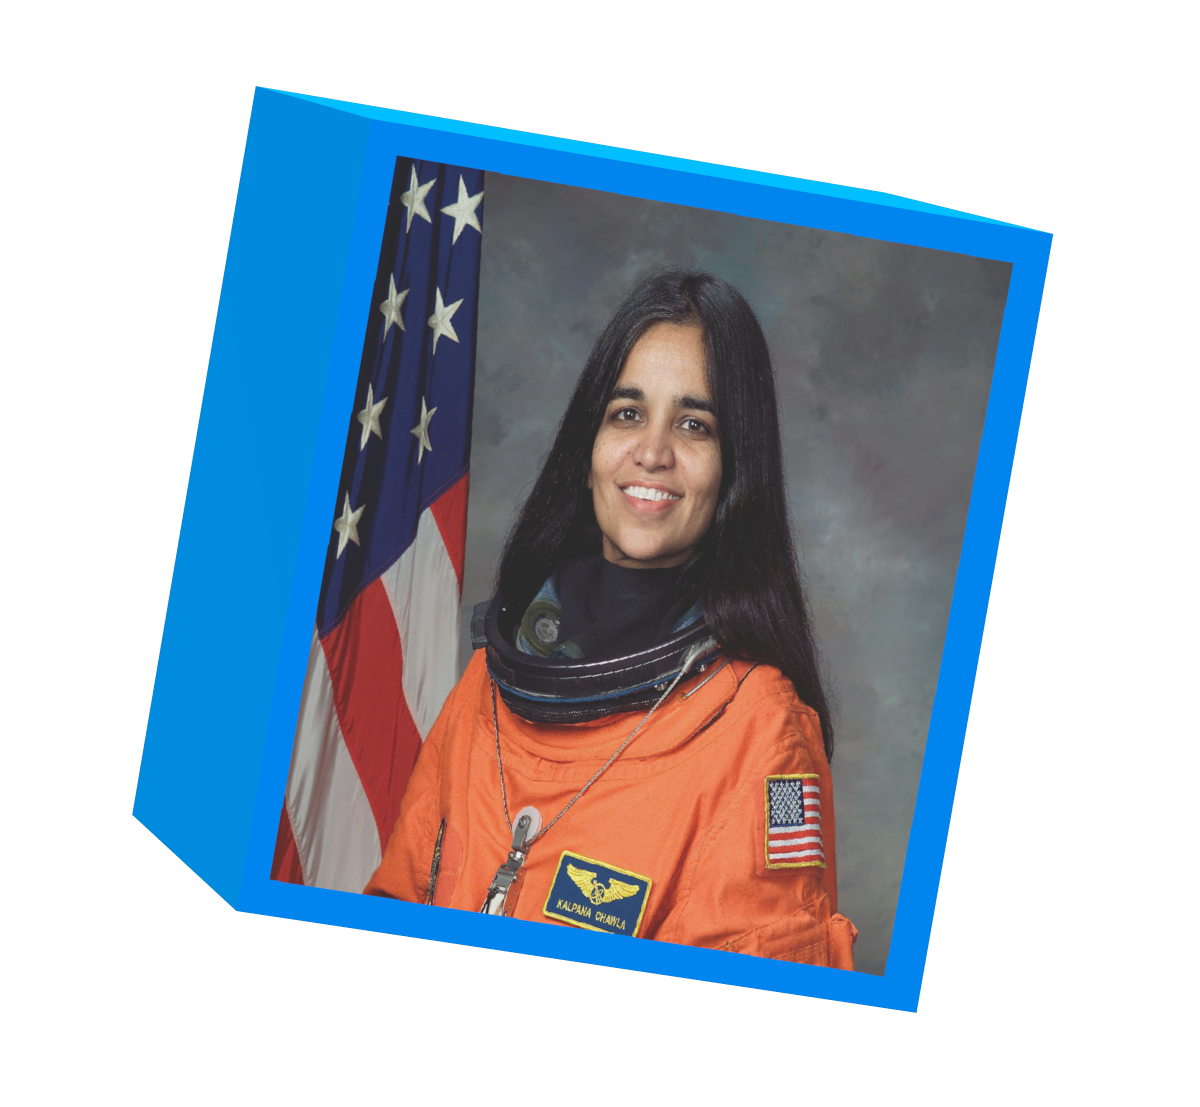
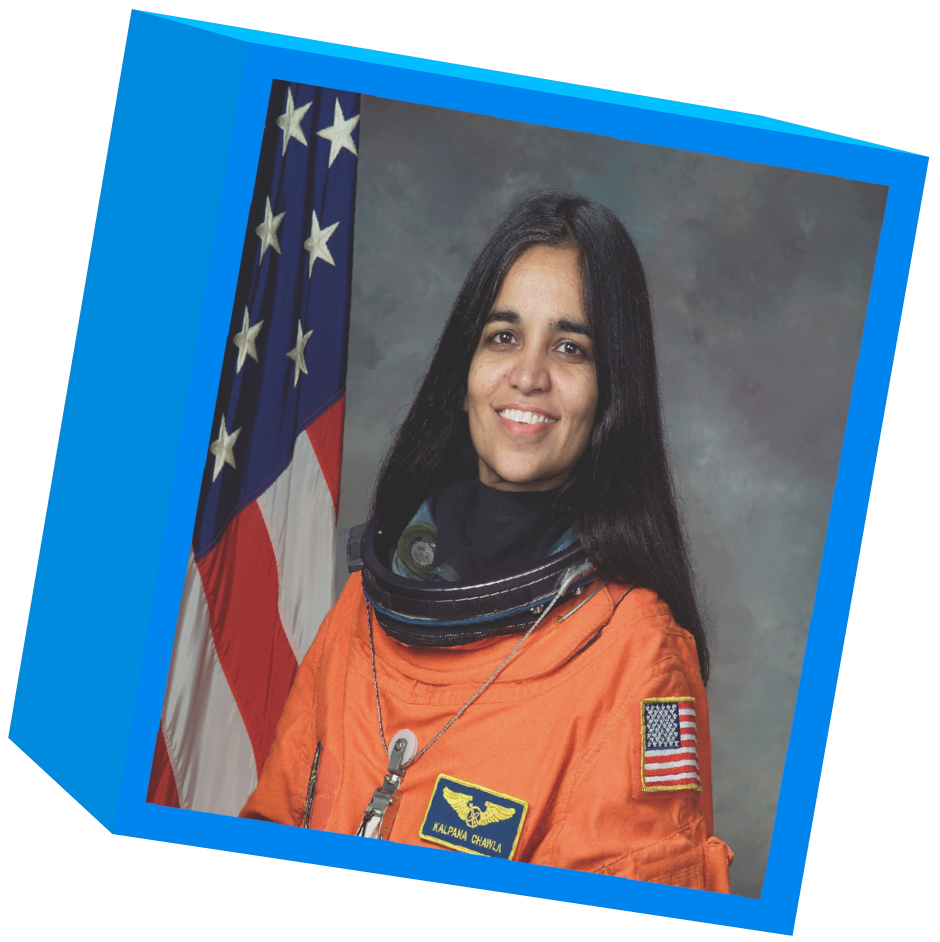
final images

diff --git a/index.html b/index.html
@@ -47,7 +47,7 @@
  <div class="link-section text-center d-none d-md-block d-sm-none" >
     <a href="#work work3">Awards</a>
  </div> 
- <div class="link-section text-center d-none d-md-block d-sm-none" style="margin:0px 0px 60px 0px;">
+ <div class="link-section text-center d-none d-md-block d-sm-none" style="margin:0px 0px 80px 0px;">
     <a href="#Intro">Timeline</a>
  </div> 
  	
@@ -210,7 +210,7 @@
 
 	<div class="wavy-g">
 	</div>
-	
+<!----Content start-->	
   
 <section class="work-bg">
 <div class="container">
@@ -256,7 +256,7 @@
   <div class="col-md-5 col-sm-6 col-12 offset-md-1" id="second">
  <div class="workpic">
   <div class="big-circle-shape"></div>
- <img src="img/subaru-device.png" class="img-fluid" id="img" width="" height="" alt="">
+ <img src="img/2.png" class="img-fluid" id="img" width="" height="" alt="">
  </div>
 	</div>
 </div>
@@ -268,7 +268,7 @@
   <div class="col-md-5 col-sm-6 col-12"  id="third">
  <div class="workpic">
   <div class="big-circle-shape"></div>
- <img src="img/valeyo-device.png" class="img-fluid" id="img" width="" height="" alt="">
+ <img src="img/3.png" class="img-fluid" id="img" width="" height="" alt="">
  </div>
 	</div>
 	
@@ -288,6 +288,8 @@
 </div>
 
 </section>
+
+<!----Content end-->	
 
 <!-----Timeline ----->
 
